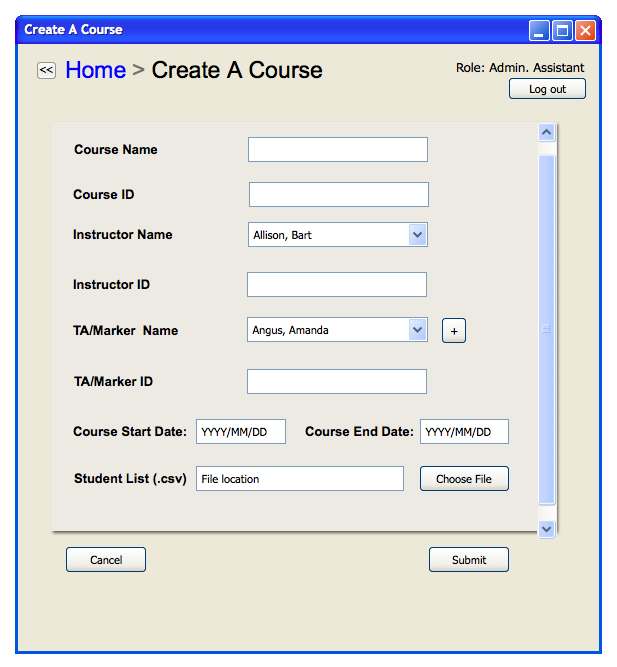
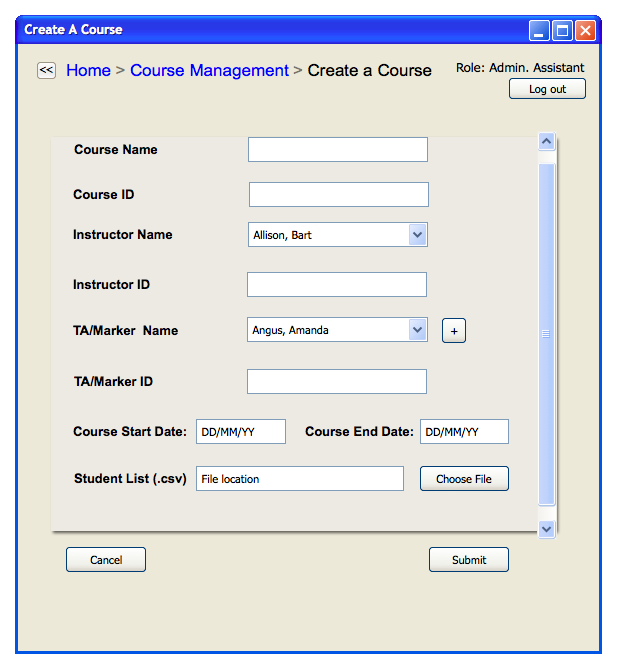
Fixed breadcrumbs and added add. pages to "create course"

diff --git a/docs/userManual.tex b/docs/userManual.tex
@@ -270,7 +270,7 @@ To create a course, do the following:
    NEED AN IMAGE FOR THIS
    \\ THEN THIS STEP NEEDS TO BE COMPLETED
 
-\\ ***** IAN - The PNG is called SRS - New Activity Rubric *********
+***** IAN - The PNG is called SRS - New Activity Rubric *********
  \end{center}
  \item Once all the desired information about the activity has been entered
    in correctly, clicking \textbf{Finish} will create the activity and open
